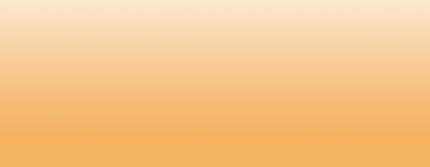
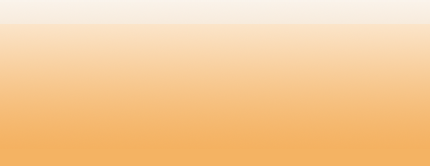
Improve expanded container background painting.

Changed region(s): [[0.0, 0.0, 1.0, 0.1506]]

diff --git a/client-ui/src/main/java/com/thinkparity/ophelia/browser/application/browser/display/renderer/tab/container/ContainerPanel.java b/client-ui/src/main/java/com/thinkparity/ophelia/browser/application/browser/display/renderer/tab/container/ContainerPanel.java
@@ -356,10 +356,10 @@ public class ContainerPanel extends DefaultTabPanel {
         add(expandedJPanel, constraints.clone());
 
         if (animate) {
-            animator.expand(20, 165);
+            animator.expand(20, 166);
         } else {
             final Dimension preferredSize = expandedJPanel.getPreferredSize();
-            preferredSize.height = 165;
+            preferredSize.height = 166;
             expandedJPanel.setPreferredSize(preferredSize);
         }
 
@@ -609,6 +609,7 @@ public class ContainerPanel extends DefaultTabPanel {
         gridBagConstraints.gridy = 1;
         gridBagConstraints.anchor = java.awt.GridBagConstraints.EAST;
         gridBagConstraints.weightx = 1.0;
+        gridBagConstraints.insets = new java.awt.Insets(0, 0, 1, 0);
         westJPanel.add(westFillerJLabel, gridBagConstraints);
 
         java.util.ResourceBundle bundle = java.util.ResourceBundle.getBundle("localization/ListItem_Messages"); // NOI18N
@@ -616,35 +617,35 @@ public class ContainerPanel extends DefaultTabPanel {
         gridBagConstraints = new java.awt.GridBagConstraints();
         gridBagConstraints.gridx = 2;
         gridBagConstraints.gridy = 1;
-        gridBagConstraints.insets = new java.awt.Insets(0, 0, 0, 5);
+        gridBagConstraints.insets = new java.awt.Insets(0, 0, 1, 5);
         westJPanel.add(westFirstJLabel, gridBagConstraints);
 
         westPreviousJLabel.setText(bundle.getString("ContainerPanel.previousJLabelWest")); // NOI18N
         gridBagConstraints = new java.awt.GridBagConstraints();
         gridBagConstraints.gridx = 3;
         gridBagConstraints.gridy = 1;
-        gridBagConstraints.insets = new java.awt.Insets(0, 5, 0, 5);
+        gridBagConstraints.insets = new java.awt.Insets(0, 5, 1, 5);
         westJPanel.add(westPreviousJLabel, gridBagConstraints);
 
         westCountJLabel.setText(bundle.getString("ContainerPanel.countJLabel")); // NOI18N
         gridBagConstraints = new java.awt.GridBagConstraints();
         gridBagConstraints.gridx = 4;
         gridBagConstraints.gridy = 1;
-        gridBagConstraints.insets = new java.awt.Insets(0, 5, 0, 5);
+        gridBagConstraints.insets = new java.awt.Insets(0, 5, 1, 5);
         westJPanel.add(westCountJLabel, gridBagConstraints);
 
         westNextJLabel.setText(bundle.getString("ContainerPanel.nextJLabelWest")); // NOI18N
         gridBagConstraints = new java.awt.GridBagConstraints();
         gridBagConstraints.gridx = 5;
         gridBagConstraints.gridy = 1;
-        gridBagConstraints.insets = new java.awt.Insets(0, 5, 0, 5);
+        gridBagConstraints.insets = new java.awt.Insets(0, 5, 1, 5);
         westJPanel.add(westNextJLabel, gridBagConstraints);
 
         westLastJLabel.setText(bundle.getString("ContainerPanel.lastJLabelWest")); // NOI18N
         gridBagConstraints = new java.awt.GridBagConstraints();
         gridBagConstraints.gridx = 6;
         gridBagConstraints.gridy = 1;
-        gridBagConstraints.insets = new java.awt.Insets(0, 5, 0, 5);
+        gridBagConstraints.insets = new java.awt.Insets(0, 5, 1, 5);
         westJPanel.add(westLastJLabel, gridBagConstraints);
 
         expandedJPanel.add(westJPanel);
@@ -705,41 +706,42 @@ public class ContainerPanel extends DefaultTabPanel {
         gridBagConstraints.gridy = 1;
         gridBagConstraints.anchor = java.awt.GridBagConstraints.EAST;
         gridBagConstraints.weightx = 1.0;
+        gridBagConstraints.insets = new java.awt.Insets(0, 0, 1, 0);
         eastJPanel.add(eastFillerJLabel, gridBagConstraints);
 
         eastFirstJLabel.setText(bundle.getString("ContainerPanel.firstJLabelEast")); // NOI18N
         gridBagConstraints = new java.awt.GridBagConstraints();
         gridBagConstraints.gridx = 1;
         gridBagConstraints.gridy = 1;
-        gridBagConstraints.insets = new java.awt.Insets(0, 5, 0, 5);
+        gridBagConstraints.insets = new java.awt.Insets(0, 5, 1, 5);
         eastJPanel.add(eastFirstJLabel, gridBagConstraints);
 
         eastPreviousJLabel.setText(bundle.getString("ContainerPanel.previousJLabelEast")); // NOI18N
         gridBagConstraints = new java.awt.GridBagConstraints();
         gridBagConstraints.gridx = 2;
         gridBagConstraints.gridy = 1;
-        gridBagConstraints.insets = new java.awt.Insets(0, 5, 0, 5);
+        gridBagConstraints.insets = new java.awt.Insets(0, 5, 1, 5);
         eastJPanel.add(eastPreviousJLabel, gridBagConstraints);
 
         eastCountJLabel.setText(bundle.getString("ContainerPanel.countJLabel")); // NOI18N
         gridBagConstraints = new java.awt.GridBagConstraints();
         gridBagConstraints.gridx = 3;
         gridBagConstraints.gridy = 1;
-        gridBagConstraints.insets = new java.awt.Insets(0, 5, 0, 5);
+        gridBagConstraints.insets = new java.awt.Insets(0, 5, 1, 5);
         eastJPanel.add(eastCountJLabel, gridBagConstraints);
 
         eastNextJLabel.setText(bundle.getString("ContainerPanel.nextJLabelEast")); // NOI18N
         gridBagConstraints = new java.awt.GridBagConstraints();
         gridBagConstraints.gridx = 4;
         gridBagConstraints.gridy = 1;
-        gridBagConstraints.insets = new java.awt.Insets(0, 5, 0, 5);
+        gridBagConstraints.insets = new java.awt.Insets(0, 5, 1, 5);
         eastJPanel.add(eastNextJLabel, gridBagConstraints);
 
         eastLastJLabel.setText(bundle.getString("ContainerPanel.lastJLabelEast")); // NOI18N
         gridBagConstraints = new java.awt.GridBagConstraints();
         gridBagConstraints.gridx = 5;
         gridBagConstraints.gridy = 1;
-        gridBagConstraints.insets = new java.awt.Insets(0, 5, 0, 5);
+        gridBagConstraints.insets = new java.awt.Insets(0, 5, 1, 5);
         eastJPanel.add(eastLastJLabel, gridBagConstraints);
 
         expandedJPanel.add(eastJPanel);

diff --git a/local/browser/src/main/java/com/thinkparity/ophelia/browser/application/browser/display/renderer/tab/container/ContainerPanel.java b/local/browser/src/main/java/com/thinkparity/ophelia/browser/application/browser/display/renderer/tab/container/ContainerPanel.java
@@ -356,10 +356,10 @@ public class ContainerPanel extends DefaultTabPanel {
         add(expandedJPanel, constraints.clone());
 
         if (animate) {
-            animator.expand(20, 165);
+            animator.expand(20, 166);
         } else {
             final Dimension preferredSize = expandedJPanel.getPreferredSize();
-            preferredSize.height = 165;
+            preferredSize.height = 166;
             expandedJPanel.setPreferredSize(preferredSize);
         }
 
@@ -609,6 +609,7 @@ public class ContainerPanel extends DefaultTabPanel {
         gridBagConstraints.gridy = 1;
         gridBagConstraints.anchor = java.awt.GridBagConstraints.EAST;
         gridBagConstraints.weightx = 1.0;
+        gridBagConstraints.insets = new java.awt.Insets(0, 0, 1, 0);
         westJPanel.add(westFillerJLabel, gridBagConstraints);
 
         java.util.ResourceBundle bundle = java.util.ResourceBundle.getBundle("localization/ListItem_Messages"); // NOI18N
@@ -616,35 +617,35 @@ public class ContainerPanel extends DefaultTabPanel {
         gridBagConstraints = new java.awt.GridBagConstraints();
         gridBagConstraints.gridx = 2;
         gridBagConstraints.gridy = 1;
-        gridBagConstraints.insets = new java.awt.Insets(0, 0, 0, 5);
+        gridBagConstraints.insets = new java.awt.Insets(0, 0, 1, 5);
         westJPanel.add(westFirstJLabel, gridBagConstraints);
 
         westPreviousJLabel.setText(bundle.getString("ContainerPanel.previousJLabelWest")); // NOI18N
         gridBagConstraints = new java.awt.GridBagConstraints();
         gridBagConstraints.gridx = 3;
         gridBagConstraints.gridy = 1;
-        gridBagConstraints.insets = new java.awt.Insets(0, 5, 0, 5);
+        gridBagConstraints.insets = new java.awt.Insets(0, 5, 1, 5);
         westJPanel.add(westPreviousJLabel, gridBagConstraints);
 
         westCountJLabel.setText(bundle.getString("ContainerPanel.countJLabel")); // NOI18N
         gridBagConstraints = new java.awt.GridBagConstraints();
         gridBagConstraints.gridx = 4;
         gridBagConstraints.gridy = 1;
-        gridBagConstraints.insets = new java.awt.Insets(0, 5, 0, 5);
+        gridBagConstraints.insets = new java.awt.Insets(0, 5, 1, 5);
         westJPanel.add(westCountJLabel, gridBagConstraints);
 
         westNextJLabel.setText(bundle.getString("ContainerPanel.nextJLabelWest")); // NOI18N
         gridBagConstraints = new java.awt.GridBagConstraints();
         gridBagConstraints.gridx = 5;
         gridBagConstraints.gridy = 1;
-        gridBagConstraints.insets = new java.awt.Insets(0, 5, 0, 5);
+        gridBagConstraints.insets = new java.awt.Insets(0, 5, 1, 5);
         westJPanel.add(westNextJLabel, gridBagConstraints);
 
         westLastJLabel.setText(bundle.getString("ContainerPanel.lastJLabelWest")); // NOI18N
         gridBagConstraints = new java.awt.GridBagConstraints();
         gridBagConstraints.gridx = 6;
         gridBagConstraints.gridy = 1;
-        gridBagConstraints.insets = new java.awt.Insets(0, 5, 0, 5);
+        gridBagConstraints.insets = new java.awt.Insets(0, 5, 1, 5);
         westJPanel.add(westLastJLabel, gridBagConstraints);
 
         expandedJPanel.add(westJPanel);
@@ -705,41 +706,42 @@ public class ContainerPanel extends DefaultTabPanel {
         gridBagConstraints.gridy = 1;
         gridBagConstraints.anchor = java.awt.GridBagConstraints.EAST;
         gridBagConstraints.weightx = 1.0;
+        gridBagConstraints.insets = new java.awt.Insets(0, 0, 1, 0);
         eastJPanel.add(eastFillerJLabel, gridBagConstraints);
 
         eastFirstJLabel.setText(bundle.getString("ContainerPanel.firstJLabelEast")); // NOI18N
         gridBagConstraints = new java.awt.GridBagConstraints();
         gridBagConstraints.gridx = 1;
         gridBagConstraints.gridy = 1;
-        gridBagConstraints.insets = new java.awt.Insets(0, 5, 0, 5);
+        gridBagConstraints.insets = new java.awt.Insets(0, 5, 1, 5);
         eastJPanel.add(eastFirstJLabel, gridBagConstraints);
 
         eastPreviousJLabel.setText(bundle.getString("ContainerPanel.previousJLabelEast")); // NOI18N
         gridBagConstraints = new java.awt.GridBagConstraints();
         gridBagConstraints.gridx = 2;
         gridBagConstraints.gridy = 1;
-        gridBagConstraints.insets = new java.awt.Insets(0, 5, 0, 5);
+        gridBagConstraints.insets = new java.awt.Insets(0, 5, 1, 5);
         eastJPanel.add(eastPreviousJLabel, gridBagConstraints);
 
         eastCountJLabel.setText(bundle.getString("ContainerPanel.countJLabel")); // NOI18N
         gridBagConstraints = new java.awt.GridBagConstraints();
         gridBagConstraints.gridx = 3;
         gridBagConstraints.gridy = 1;
-        gridBagConstraints.insets = new java.awt.Insets(0, 5, 0, 5);
+        gridBagConstraints.insets = new java.awt.Insets(0, 5, 1, 5);
         eastJPanel.add(eastCountJLabel, gridBagConstraints);
 
         eastNextJLabel.setText(bundle.getString("ContainerPanel.nextJLabelEast")); // NOI18N
         gridBagConstraints = new java.awt.GridBagConstraints();
         gridBagConstraints.gridx = 4;
         gridBagConstraints.gridy = 1;
-        gridBagConstraints.insets = new java.awt.Insets(0, 5, 0, 5);
+        gridBagConstraints.insets = new java.awt.Insets(0, 5, 1, 5);
         eastJPanel.add(eastNextJLabel, gridBagConstraints);
 
         eastLastJLabel.setText(bundle.getString("ContainerPanel.lastJLabelEast")); // NOI18N
         gridBagConstraints = new java.awt.GridBagConstraints();
         gridBagConstraints.gridx = 5;
         gridBagConstraints.gridy = 1;
-        gridBagConstraints.insets = new java.awt.Insets(0, 5, 0, 5);
+        gridBagConstraints.insets = new java.awt.Insets(0, 5, 1, 5);
         eastJPanel.add(eastLastJLabel, gridBagConstraints);
 
         expandedJPanel.add(eastJPanel);

diff --git a/client-ui/src/main/java/com/thinkparity/ophelia/browser/application/browser/display/renderer/tab/TabRenderer.java b/client-ui/src/main/java/com/thinkparity/ophelia/browser/application/browser/display/renderer/tab/TabRenderer.java
@@ -38,6 +38,9 @@ public final class TabRenderer {
 
     /** The east background <code>Image</code>. */
     private static Image BACKGROUND_EAST;
+    
+    /** The east background when row 0 is selected <code>Image</code>. */
+    private static Image BACKGROUND_EAST_ROW0_SELECTED;
 
     /** The container version panel's center background <code>BufferedImage</code>. */ 
     private static BufferedImage[] VERSION_IMAGES_CENTER;
@@ -98,7 +101,10 @@ public final class TabRenderer {
                 Image.SCALE_SMOOTH);
         buffer = ImageIOUtil.read("PanelBackgroundEast.png");
         BACKGROUND_EAST = buffer.getScaledInstance(bounds.width,
-                buffer.getHeight(), Image.SCALE_SMOOTH);        
+                buffer.getHeight(), Image.SCALE_SMOOTH);
+        buffer = ImageIOUtil.read("PanelBackgroundEast_0Selected.png");
+        BACKGROUND_EAST_ROW0_SELECTED = buffer.getScaledInstance(bounds.width,
+                buffer.getHeight(), Image.SCALE_SMOOTH);    
         VERSION_IMAGES_CENTER = new BufferedImage[] {
                 ImageIOUtil.read("PanelBackgroundCenter0.png"),
                 ImageIOUtil.read("PanelBackgroundCenter1.png"),
@@ -208,7 +214,7 @@ public final class TabRenderer {
          * the bar is not scaled
          */
         g.drawImage(VERSION_IMAGES_CENTER[selectionIndex], width
-                - VERSION_IMAGES_CENTER[selectionIndex].getWidth(), 23,
+                - VERSION_IMAGES_CENTER[selectionIndex].getWidth(), 24,
                 observer);
     }
 
@@ -225,7 +231,11 @@ public final class TabRenderer {
             final int height, final int selectionIndex,
             final ImageObserver observer) {
         // paint a solid gradient image on the eastern side of the version panel
-        g.drawImage(BACKGROUND_EAST, x, 0 == selectionIndex ? 0 : 24, observer);
+        if (selectionIndex==0) {
+            g.drawImage(BACKGROUND_EAST_ROW0_SELECTED, x, 0, observer);
+        } else {
+            g.drawImage(BACKGROUND_EAST, x, 0, observer);
+        }
     }
 
     /**
@@ -246,19 +256,14 @@ public final class TabRenderer {
          * selection index; and paint it
          *
          * the number 26 is the height of the each selected row image (ie. row
-         * height of 24 plus 2 extra pixels), except the first row which is 25 pixels.
+         * height of 24 plus 2 extra pixels).
          * 
          * the number 24 is the offset at which to draw each selected row
          */
         final int rowHeight;
         final int rowOffset;
-        if (selectionIndex == 0) {
-            rowHeight = 25;
-            rowOffset = 0;
-        } else {
-            rowHeight = 26;
-            rowOffset = selectionIndex * 24 - 1;
-        }
+        rowHeight = 26;
+        rowOffset = selectionIndex * 24;
         if (isDirty(versionImagesWest[selectionIndex], width, height)) {
             versionImagesWest[selectionIndex] = clipImage(
                     VERSION_IMAGES_WEST[selectionIndex], 0, 0, width, rowHeight,

diff --git a/local/browser/src/main/java/com/thinkparity/ophelia/browser/application/browser/display/renderer/tab/TabRenderer.java b/local/browser/src/main/java/com/thinkparity/ophelia/browser/application/browser/display/renderer/tab/TabRenderer.java
@@ -38,6 +38,9 @@ public final class TabRenderer {
 
     /** The east background <code>Image</code>. */
     private static Image BACKGROUND_EAST;
+    
+    /** The east background when row 0 is selected <code>Image</code>. */
+    private static Image BACKGROUND_EAST_ROW0_SELECTED;
 
     /** The container version panel's center background <code>BufferedImage</code>. */ 
     private static BufferedImage[] VERSION_IMAGES_CENTER;
@@ -98,7 +101,10 @@ public final class TabRenderer {
                 Image.SCALE_SMOOTH);
         buffer = ImageIOUtil.read("PanelBackgroundEast.png");
         BACKGROUND_EAST = buffer.getScaledInstance(bounds.width,
-                buffer.getHeight(), Image.SCALE_SMOOTH);        
+                buffer.getHeight(), Image.SCALE_SMOOTH);
+        buffer = ImageIOUtil.read("PanelBackgroundEast_0Selected.png");
+        BACKGROUND_EAST_ROW0_SELECTED = buffer.getScaledInstance(bounds.width,
+                buffer.getHeight(), Image.SCALE_SMOOTH);    
         VERSION_IMAGES_CENTER = new BufferedImage[] {
                 ImageIOUtil.read("PanelBackgroundCenter0.png"),
                 ImageIOUtil.read("PanelBackgroundCenter1.png"),
@@ -208,7 +214,7 @@ public final class TabRenderer {
          * the bar is not scaled
          */
         g.drawImage(VERSION_IMAGES_CENTER[selectionIndex], width
-                - VERSION_IMAGES_CENTER[selectionIndex].getWidth(), 23,
+                - VERSION_IMAGES_CENTER[selectionIndex].getWidth(), 24,
                 observer);
     }
 
@@ -225,7 +231,11 @@ public final class TabRenderer {
             final int height, final int selectionIndex,
             final ImageObserver observer) {
         // paint a solid gradient image on the eastern side of the version panel
-        g.drawImage(BACKGROUND_EAST, x, 0 == selectionIndex ? 0 : 24, observer);
+        if (selectionIndex==0) {
+            g.drawImage(BACKGROUND_EAST_ROW0_SELECTED, x, 0, observer);
+        } else {
+            g.drawImage(BACKGROUND_EAST, x, 0, observer);
+        }
     }
 
     /**
@@ -246,19 +256,14 @@ public final class TabRenderer {
          * selection index; and paint it
          *
          * the number 26 is the height of the each selected row image (ie. row
-         * height of 24 plus 2 extra pixels), except the first row which is 25 pixels.
+         * height of 24 plus 2 extra pixels).
          * 
          * the number 24 is the offset at which to draw each selected row
          */
         final int rowHeight;
         final int rowOffset;
-        if (selectionIndex == 0) {
-            rowHeight = 25;
-            rowOffset = 0;
-        } else {
-            rowHeight = 26;
-            rowOffset = selectionIndex * 24 - 1;
-        }
+        rowHeight = 26;
+        rowOffset = selectionIndex * 24;
         if (isDirty(versionImagesWest[selectionIndex], width, height)) {
             versionImagesWest[selectionIndex] = clipImage(
                     VERSION_IMAGES_WEST[selectionIndex], 0, 0, width, rowHeight,
